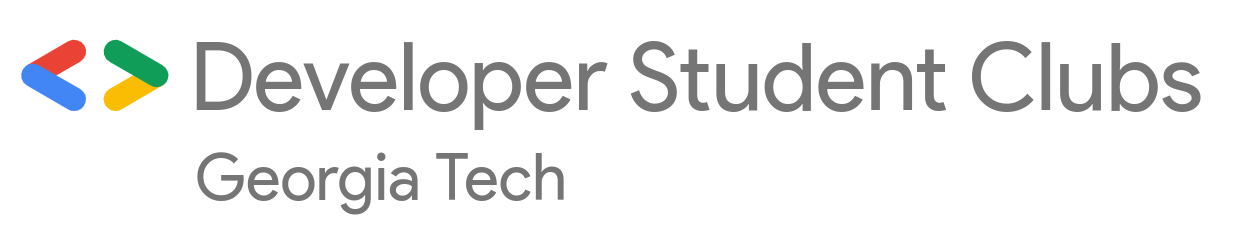
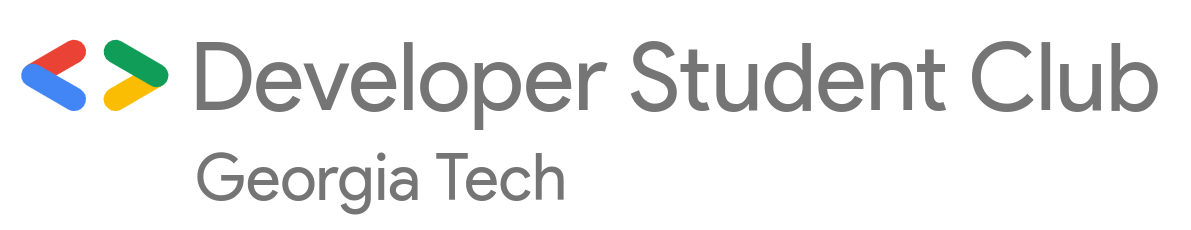
Change spelling and spacing on index, fix no link to home on team page

diff --git a/templates/index.html b/templates/index.html
@@ -81,7 +81,7 @@
                         <a class="nav-link" href="/">About Us</a>
                     </li>
                     <li class="nav-item">
-                        <a class="nav-link" href="http://dscgt.eventbrite.com">Events</a>
+                        <a class="nav-link" href="http://dscgt.eventbrite.com" target="_blank">Events</a>
                     </li>
                     <li class="nav-item">
                         <a class="nav-link" href="/team">Our Team</a>
@@ -121,7 +121,7 @@
             <div class="row">
                 <div class="brand text-center">
                 	<img style="max-width: 100%;" src="../images/dsc-word.png">
-                    <h2 class="caption-subtitle">Developer Student Club at Georgia Tech | Powered By Google Developers</h2>
+                    <h2 class="caption-subtitle">Powered By Google Developers</h2>
                     <code class="hashtag">#developerstudentclubs</code>&nbsp;&nbsp;
                     <code class="hashtag">#googlestudents</code>&nbsp;&nbsp;
                     <code class="hashtag">#growwithgoogle</code>&nbsp;&nbsp;
@@ -161,12 +161,16 @@
                 <h3 class="what-we-do-description">
                     <div class="row">
                         <div class="col s6">
-                            <h4>Teaching</h4>
-                            <h5>Hosting workshops and StudyJams, we teach people of all backgrounds how to use Google technologies. <br>From performing data analysis on huge datasets to building an app to link local business owners, these are our educational goals.</h5>
+                            <div class="what-we-do-col-content">
+                                <h4>Teaching</h4>
+                                <h5>Hosting workshops and StudyJams, we teach people of all backgrounds how to use Google technologies. <br>From performing data analysis on huge datasets to building an app to link local business owners, these are our educational goals.</h5>
+                            </div>
                         </div>
                         <div class="col s6">
-                            <h4>Projects</h4>
-                            <h5>Our projects give back to the local community. This can take the form of helping the Georgia Tech community or removing difficulties local Atlanta citizens face.</h5>                
+                            <div class="what-we-do-col-content">
+                                <h4>Projects</h4>
+                                <h5>Our projects give back to the local community. This can take the form of helping the Georgia Tech community or removing difficulties local Atlanta citizens face.</h5>                
+                            </div>
                         </div>
                     </div>
                     <div class="row">

diff --git a/templates/team.html b/templates/team.html
@@ -69,7 +69,7 @@
     <div class="navbar-fixed">
         <nav class="whiteNav" role="navigation">
             <div class="nav-wrapper container">
-                <a href="#Home" class="brand-logo">
+                <a href="/" class="brand-logo">
                     <div class="center-brand">
                         <img class="dsc-logo" src="../images/dsc-logo-2.png">
                         <span class="dsc-brand hide-on-small-only">&nbsp;&nbsp;DSC GT</span>

diff --git a/css/index.css b/css/index.css
@@ -296,6 +296,11 @@ canvas {
     }
 }
 
+.what-we-do-col-content {
+    padding-left: 15px;
+    padding-right: 15px;
+}
+
 /* ---- Domains ---- */
 .domains-section {
     /* background-color: #6BF178; */
@@ -365,6 +370,8 @@ canvas {
     vertical-align: middle;
     padding-left: 40px;
     padding-right: 40px;
+    padding-top: 15px;
+    padding-bottom: 15px;
 }
 
 /* ---- Gallery ---- */
